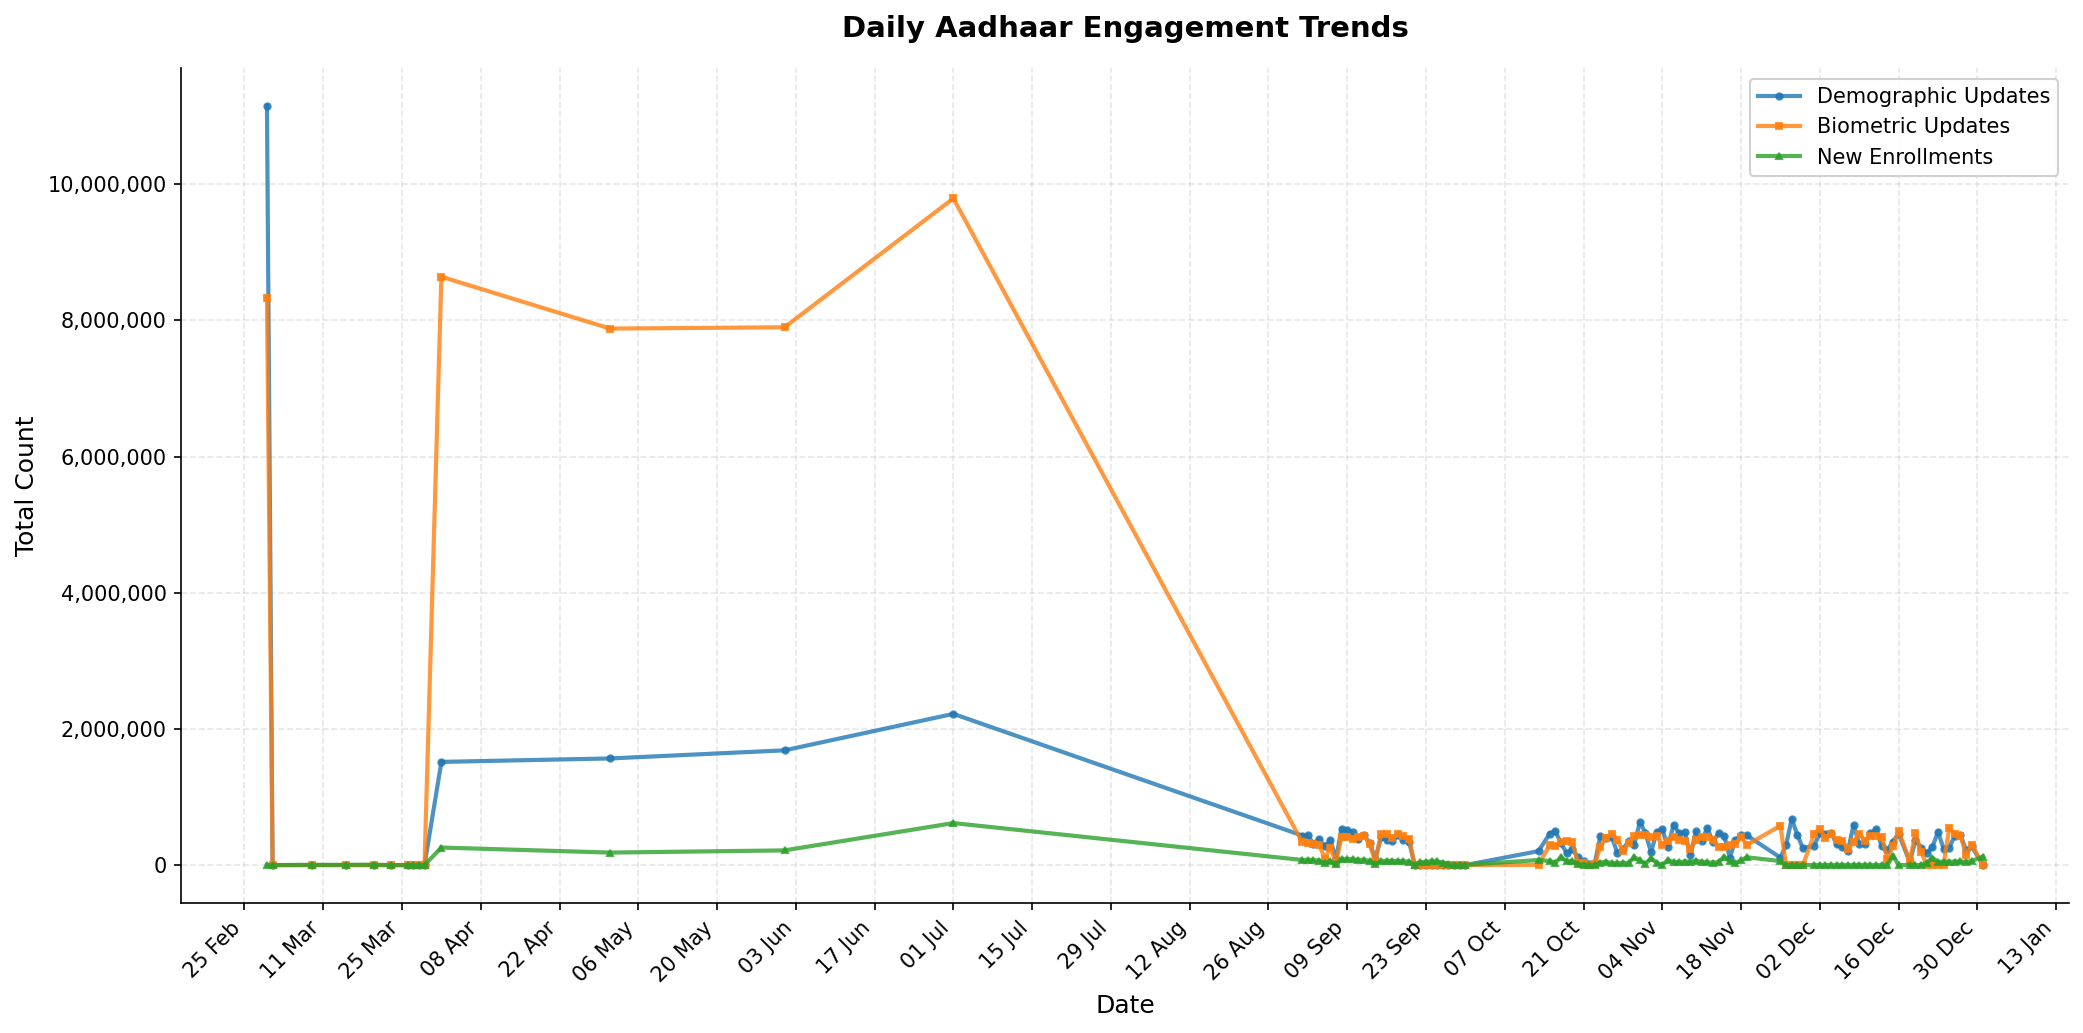
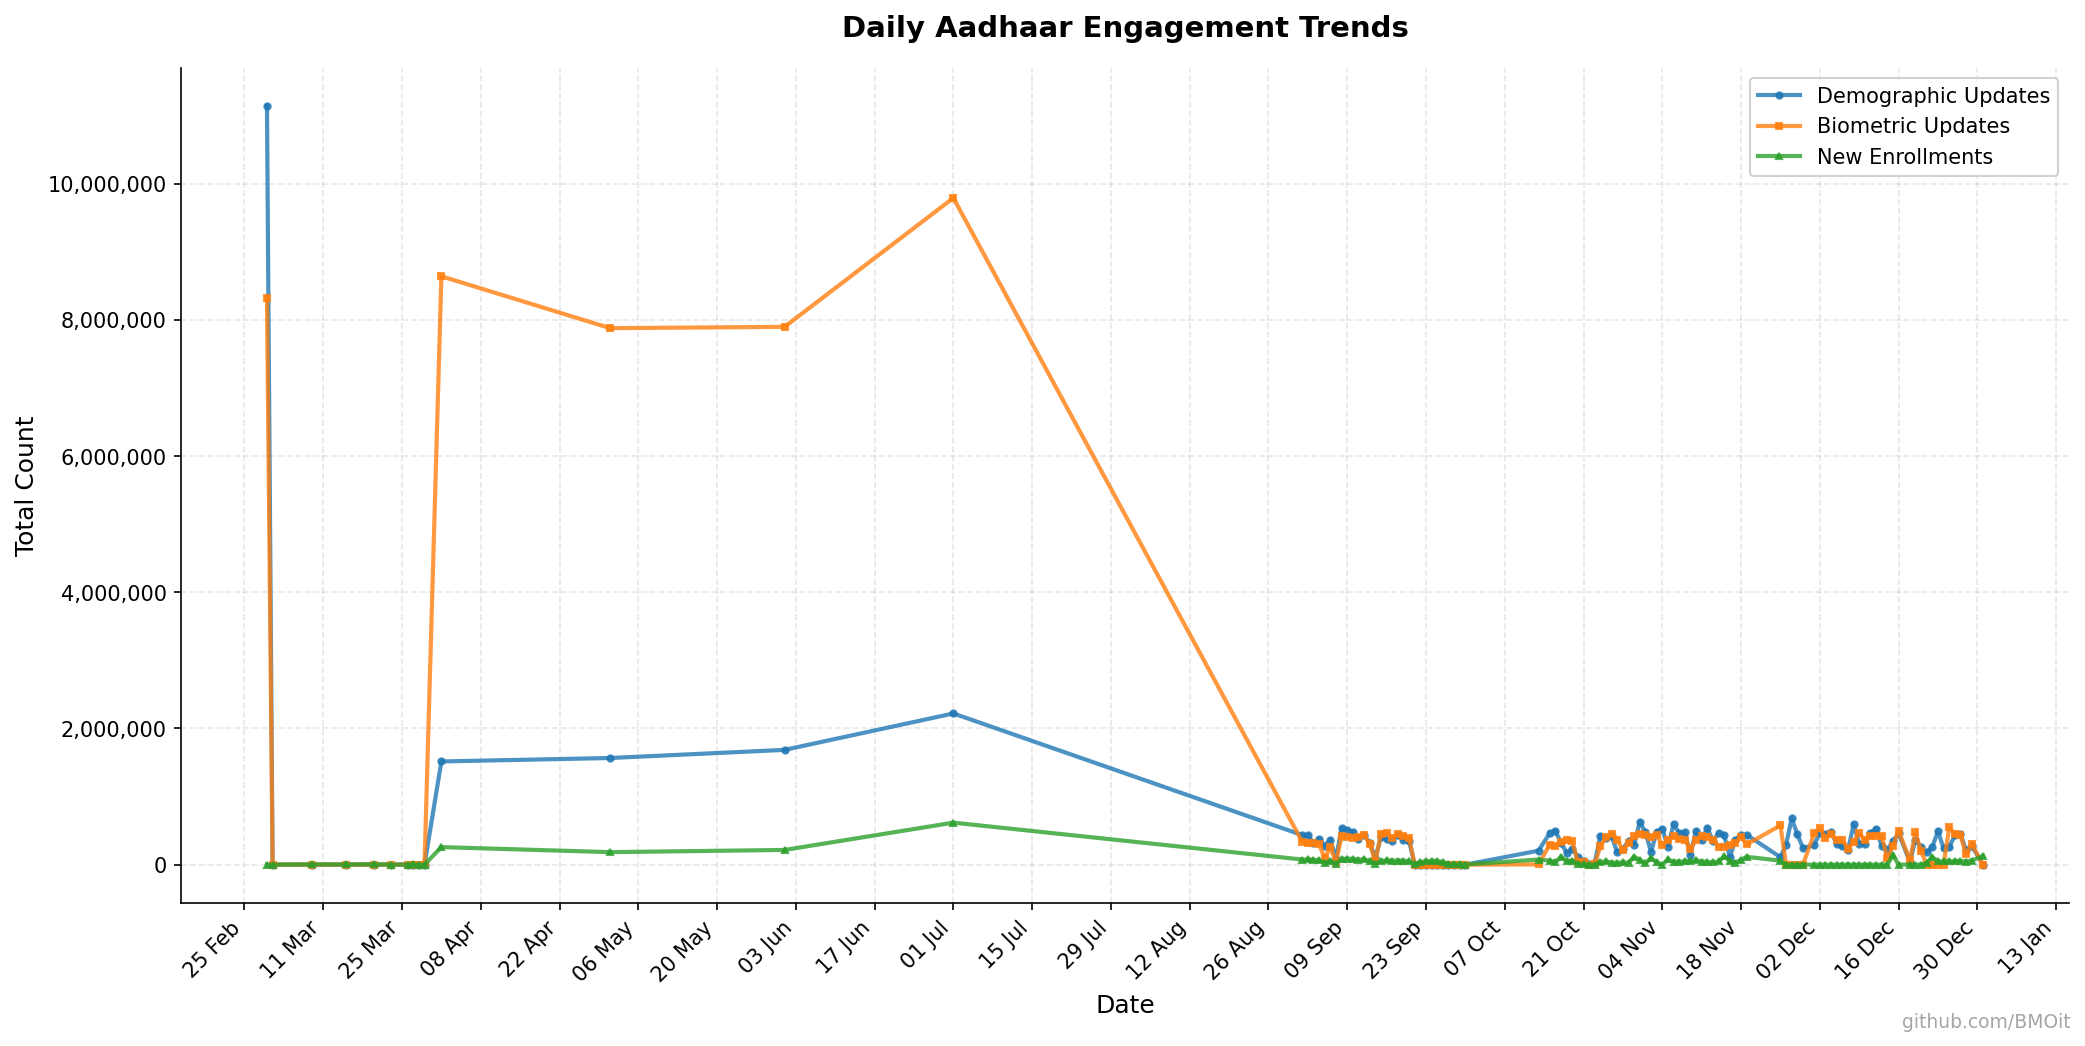
feat: add top 15 states with the most demographics interactions

diff --git a/src/charts/top_states/chart_02.py b/src/charts/top_states/chart_02.py
@@ -1,0 +1,58 @@
+"""
+Chart 2: Top 15 States - Demographic Interactions
+Type of Chart: Horizontal bar chart
+Data Points:
+  - demographic.csv: state, demo_age_5_17, demo_age_17_
+  - Calculation: SUM(demo_age_5_17 + demo_age_17_) GROUP BY state, TOP 15
+"""
+import matplotlib.pyplot as plt
+
+from src.charts import register_chart
+from src.charts.base import BaseChart
+from src.processors import StateAggregator
+import config
+
+
+@register_chart
+class Chart02TopStatesDemographic(BaseChart):
+
+    @property
+    def chart_id(self) -> str:
+        return "02"
+
+    @property
+    def title(self) -> str:
+        return "Top 15 States - Demographic Interactions"
+
+    def generate(self) -> plt.Figure:
+        data = self.data_loader.get_all_data()
+        processor = StateAggregator()
+        state_data = processor.process(data, dataset="demographic", top_n=15)
+
+        fig, ax = plt.subplots(figsize=(12, 8))
+
+        bars = ax.barh(
+            state_data["state"],
+            state_data["total"],
+            color=config.COLORS["demographic"],
+            edgecolor="white",
+            linewidth=0.5
+        )
+
+        for bar, value in zip(bars, state_data["total"]):
+            ax.text(
+                value + state_data["total"].max() * 0.01,
+                bar.get_y() + bar.get_height() / 2,
+                f"{value:,.0f}",
+                va="center",
+                fontsize=9
+            )
+
+        self._apply_common_style(ax)
+        ax.set_xlabel("Total Demographic Interactions", fontsize=12)
+        ax.set_ylabel("State", fontsize=12)
+        ax.xaxis.set_major_formatter(plt.FuncFormatter(lambda x, p: f"{x/1e6:.1f}M"))
+        ax.set_xlim(0, state_data["total"].max() * 1.15)
+        fig.tight_layout()
+
+        return fig

diff --git a/src/processors/state_aggregator.py b/src/processors/state_aggregator.py
@@ -1,0 +1,49 @@
+"""
+State Aggregator
+Aggregates data by state for ranking charts.
+Data Points:
+  - demographic: SUM(demo_age_5_17 + demo_age_17_) GROUP BY state
+  - biometric: SUM(bio_age_5_17 + bio_age_17_) GROUP BY state
+  - enrollment: SUM(age_0_5 + age_5_17 + age_18_greater) GROUP BY state
+"""
+from typing import Dict
+
+import pandas as pd
+
+from .base import BaseProcessor
+
+
+class StateAggregator(BaseProcessor):
+
+    @property
+    def name(self) -> str:
+        return "state_aggregator"
+
+    def process(self, data: Dict[str, pd.DataFrame], dataset: str = "demographic", top_n: int = 15) -> pd.DataFrame:
+        df = data[dataset]
+
+        if dataset == "demographic":
+            result = (
+                df
+                .assign(total=lambda x: x["demo_age_5_17"] + x["demo_age_17_"])
+                .groupby("state", as_index=False)["total"]
+                .sum()
+            )
+        elif dataset == "biometric":
+            result = (
+                df
+                .assign(total=lambda x: x["bio_age_5_17"] + x["bio_age_17_"])
+                .groupby("state", as_index=False)["total"]
+                .sum()
+            )
+        elif dataset == "enrollment":
+            result = (
+                df
+                .assign(total=lambda x: x["age_0_5"] + x["age_5_17"] + x["age_18_greater"])
+                .groupby("state", as_index=False)["total"]
+                .sum()
+            )
+        else:
+            raise ValueError(f"Unknown dataset: {dataset}")
+
+        return result.nlargest(top_n, "total").sort_values("total", ascending=True)

diff --git a/src/charts/base.py b/src/charts/base.py
@@ -45,6 +45,17 @@ class BaseChart(ABC):
         if fig is None:
             fig = self.generate()
 
+        fig.text(
+            0.99, 0.01,
+            "github.com/BMOit",
+            transform=fig.transFigure,
+            fontsize=9,
+            color="gray",
+            alpha=0.7,
+            ha="right",
+            va="bottom"
+        )
+
         config.CHARTS_OUTPUT_DIR.mkdir(parents=True, exist_ok=True)
         fig.savefig(
             self.output_path,

diff --git a/src/processors/__init__.py b/src/processors/__init__.py
@@ -1,5 +1,6 @@
 """Data processors for transforming raw data into chart-ready formats."""
 from .base import BaseProcessor
 from .daily_aggregator import DailyAggregator
+from .state_aggregator import StateAggregator
 
-__all__ = ["BaseProcessor", "DailyAggregator"]
+__all__ = ["BaseProcessor", "DailyAggregator", "StateAggregator"]

diff --git a/src/charts/top_states/__init__.py b/src/charts/top_states/__init__.py
@@ -1,0 +1,1 @@
+"""Top states charts."""
